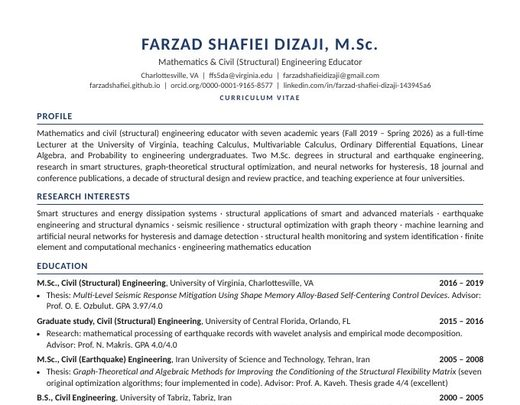
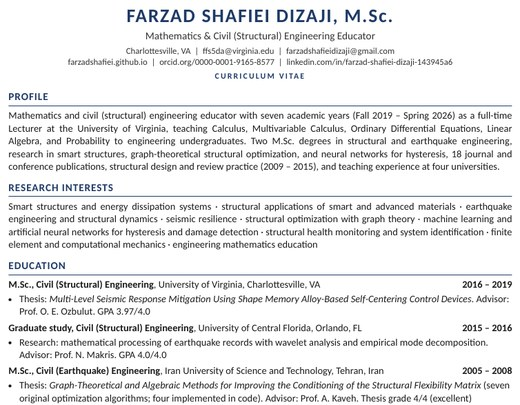
Search-committee summary, News, structured data; CV wording 2009-2015
Claude-Session: https://claude.ai/code/session_01NaBsxn5xyFHacptoK8tfvk

diff --git a/index.html b/index.html
@@ -11,6 +11,79 @@ if(location.hostname==='farzadshafiei.github.io'){
   gtag('config','G-VP09FY47HP');
 }
 </script>
+<script type="application/ld+json">
+{
+ "@context": "https://schema.org",
+ "@type": "Person",
+ "name": "Farzad Shafiei Dizaji",
+ "alternateName": [
+  "Farzad S. Dizaji",
+  "Farzad Shafiei"
+ ],
+ "url": "https://farzadshafiei.github.io/",
+ "image": "https://farzadshafiei.github.io/media/share.jpg",
+ "email": "mailto:farzadshafieidizaji@gmail.com",
+ "jobTitle": "Mathematics and Civil (Structural) Engineering Educator",
+ "description": "Former Lecturer in the Applied Mathematics Center at the University of Virginia (Fall 2019 – Spring 2026), teaching calculus, differential equations, linear algebra and probability to engineering students; research in smart structures, structural optimization and neural networks.",
+ "address": {
+  "@type": "PostalAddress",
+  "addressLocality": "Charlottesville",
+  "addressRegion": "VA",
+  "addressCountry": "US"
+ },
+ "alumniOf": [
+  {
+   "@type": "CollegeOrUniversity",
+   "name": "University of Virginia"
+  },
+  {
+   "@type": "CollegeOrUniversity",
+   "name": "Iran University of Science and Technology"
+  },
+  {
+   "@type": "CollegeOrUniversity",
+   "name": "University of Tabriz"
+  }
+ ],
+ "hasCredential": [
+  {
+   "@type": "EducationalOccupationalCredential",
+   "credentialCategory": "degree",
+   "name": "M.Sc., Civil (Structural) Engineering, University of Virginia"
+  },
+  {
+   "@type": "EducationalOccupationalCredential",
+   "credentialCategory": "degree",
+   "name": "M.Sc., Civil (Earthquake) Engineering, Iran University of Science and Technology"
+  }
+ ],
+ "knowsAbout": [
+  "Calculus",
+  "Ordinary differential equations",
+  "Linear algebra",
+  "Probability",
+  "Engineering mathematics education",
+  "Mastery grading",
+  "Inquiry-based learning",
+  "Structural engineering",
+  "Earthquake engineering",
+  "Shape memory alloys",
+  "Structural optimization",
+  "Neural networks"
+ ],
+ "identifier": {
+  "@type": "PropertyValue",
+  "propertyID": "ORCID",
+  "value": "0000-0001-9165-8577"
+ },
+ "sameAs": [
+  "https://orcid.org/0000-0001-9165-8577",
+  "https://scholar.google.com/citations?user=aKvi7Q0AAAAJ",
+  "https://www.linkedin.com/in/farzad-shafiei-dizaji-143945a6/",
+  "https://www.researchgate.net/profile/Farzad-Shafiei-Dizaji"
+ ]
+}
+</script>
 <link rel="canonical" href="https://farzadshafiei.github.io/">
 <meta property="og:type" content="website">
 <meta property="og:title" content="Farzad Shafiei Dizaji · Mathematics and Civil (Structural) Engineering Educator">
@@ -396,6 +469,23 @@ details.lab-wrap[open] .lw-close{display:inline}
   .methods{grid-template-columns:repeat(2,minmax(0,1fr))}
 }
 @media (min-width:1400px){h1{font-size:clamp(4.8rem,5.2vw,6rem)}}
+
+/* committees box + news */
+.glance{display:grid;grid-template-columns:repeat(2,minmax(0,1fr));gap:.8rem}
+@media (max-width:760px){.glance{grid-template-columns:minmax(0,1fr)}}
+.gl{background:var(--surface);border:1px solid var(--rule);border-left:3px solid var(--accent);border-radius:8px;padding:.85rem 1rem}
+.gl:nth-child(2){border-left-color:var(--mark)}
+.gl p{margin:0;font-size:.95rem;line-height:1.5}
+.gl .gl-k{font:600 .72rem var(--mono);letter-spacing:.08em;text-transform:uppercase;color:var(--muted);margin-bottom:.3rem}
+.gl-docs{display:flex;flex-wrap:wrap;gap:.5rem;margin:.9rem 0 0}
+.gl-docs a{display:inline-flex;align-items:center;gap:.4rem;padding:.38rem .75rem;border:1px solid var(--accent);border-radius:5px;color:var(--accent);text-decoration:none;font:600 .84rem var(--sans)}
+.gl-docs a:hover{background:var(--accent-soft)}
+.gl-docs svg{width:15px;height:15px}
+.news{list-style:none;margin:0;padding:0}
+.news li{display:grid;grid-template-columns:6.5rem minmax(0,1fr);gap:1rem;padding:.55rem 0;border-bottom:1px solid var(--rule)}
+.news li:last-child{border-bottom:0}
+.news time{font:600 .8rem var(--mono);letter-spacing:.04em;color:var(--mark);padding-top:.15rem}
+@media (max-width:560px){.news li{grid-template-columns:minmax(0,1fr);gap:.1rem}}
 /* ===== Light reading theme (default). Dark islands: intro, interactive labs, math-in-motion player. ===== */
 :root{--on-accent:#04121c;--accent-hover:#9bd1f0}
 html:not([data-theme="dark"]) .sheet{--bg:#faf8f4;--surface:#ffffff;--ink:#14213d;--muted:#566175;--rule:#dfd9ce;--accent:#1f5f99;--accent-soft:#e4edf7;--mark:#c2570c;--on-accent:#ffffff;--accent-hover:#174a78;--cta:#e57200;--cta-ink:#14213d;color-scheme:light;color:var(--ink)}
@@ -472,6 +562,25 @@ html:not([data-theme="dark"]) .sheet .wordlit.on .w{animation-name:wglowL}
 <div class="tiles" role="navigation" aria-label="Explore"><a class="tile" href="#about"><img src="media/tiles/about.jpg" alt="" width="400" height="400" loading="lazy"><span class="tl">About</span><span class="ts">About me</span></a><a class="tile" href="#philosophy"><img src="media/tiles/philosophy.jpg" alt="" width="400" height="400" loading="lazy"><span class="tl">Philosophy</span><span class="ts">How I teach</span></a><a class="tile" href="#teaching"><img src="media/tiles/teaching.jpg" alt="" width="400" height="400" loading="lazy"><span class="tl">Teaching</span><span class="ts">Courses taught</span></a><a class="tile" href="#students"><img src="media/tiles/students.jpg" alt="" width="400" height="400" loading="lazy"><span class="tl">Students</span><span class="ts">In their words</span></a><a class="tile" href="#research"><img src="media/tiles/research.jpg" alt="" width="400" height="400" loading="lazy"><span class="tl">Research</span><span class="ts">Dampers, graphs</span></a><a class="tile" href="#publications"><img src="media/tiles/publications.jpg" alt="" width="400" height="400" loading="lazy"><span class="tl">Publications</span><span class="ts">Papers</span></a><a class="tile" href="#contact"><img src="media/tiles/contact.jpg" alt="" width="400" height="400" loading="lazy"><span class="tl">Contact</span><span class="ts">Get in touch</span></a></div>
 
 
+
+<section id="glance" aria-labelledby="glance-h"><h2 id="glance-h">For search committees</h2><div class="body">
+  <div class="glance">
+    <div class="gl"><p class="gl-k">Ready to teach · Mathematics</p><p>Calculus I–III, Differential Equations, Linear Algebra, Probability &amp; Statistics, Engineering Mathematics, PDE, Numerical Methods, precalculus and STEM-skills courses</p></div>
+    <div class="gl"><p class="gl-k">Ready to teach · Civil engineering</p><p>Statics, Mechanics of Materials, Structural Analysis, Steel and Reinforced Concrete Design, Structural Dynamics; electives in earthquake engineering, FEM and smart structures</p></div>
+    <div class="gl"><p class="gl-k">Experience</p><p>Seven academic years as a full-time Lecturer at UVA (Fall 2019 – Spring 2026), 1,100+ engineering students; structural engineering practice 2009 – 2015; 18 publications</p></div>
+    <div class="gl"><p class="gl-k">Degrees &amp; availability</p><p>M.Sc. Structural Engineering (UVA), M.Sc. Earthquake Engineering (IUST). Available for positions starting Spring 2027.</p></div>
+  </div>
+  <p class="gl-docs"><a href="cv/Farzad_Shafiei_Dizaji_CV.pdf" target="_blank" rel="noopener"><svg viewBox="0 0 24 24" aria-hidden="true"><path fill="none" stroke="currentColor" stroke-width="2" stroke-linejoin="round" d="M6 2h9l5 5v15H6zM14 2v6h6"/></svg>CV</a><a href="cv/Teaching_Statement_Farzad_Shafiei_Dizaji.pdf" target="_blank" rel="noopener"><svg viewBox="0 0 24 24" aria-hidden="true"><path fill="none" stroke="currentColor" stroke-width="2" stroke-linejoin="round" d="M6 2h9l5 5v15H6zM14 2v6h6"/></svg>Teaching statement</a><a href="cv/Research_Statement_Farzad_Shafiei_Dizaji.pdf" target="_blank" rel="noopener"><svg viewBox="0 0 24 24" aria-hidden="true"><path fill="none" stroke="currentColor" stroke-width="2" stroke-linejoin="round" d="M6 2h9l5 5v15H6zM14 2v6h6"/></svg>Research statement</a><a href="cv/Diversity_Statement_Farzad_Shafiei_Dizaji.pdf" target="_blank" rel="noopener"><svg viewBox="0 0 24 24" aria-hidden="true"><path fill="none" stroke="currentColor" stroke-width="2" stroke-linejoin="round" d="M6 2h9l5 5v15H6zM14 2v6h6"/></svg>Diversity statement</a><a href="#documents">All résumés</a><a href="#contact">Contact</a></p>
+</div></section>
+
+<section id="news" aria-labelledby="news-h"><h2 id="news-h">News</h2><div class="body">
+  <ul class="news">
+    <li><time datetime="2026-10">Oct 2026</time><span>Applying for lecturer and assistant professor positions in mathematics and civil engineering, starting Spring or Fall 2027.</span></li>
+    <li><time datetime="2026-10">Oct 2026</time><span>New on this site: a teaching statement, a teaching introduction video and interactive versions of my research models.</span></li>
+    <li><time datetime="2026-05">May 2026</time><span>Completed seven academic years as a Lecturer in UVA's Applied Mathematics Center (Fall 2019 – Spring 2026).</span></li>
+    <li><time datetime="2024-06">Jun 2024</time><span>Co-authored ASEE paper <em>Exploring the Impact of Mastery Grading on Student Performance</em>.</span></li>
+  </ul>
+</div></section>
 
 <section id="about"><h2>About</h2><div class="body">
   <p>I trained as a structural engineer and became a mathematics instructor. I hold M.Sc. degrees in Civil (Structural) Engineering from the University of Virginia and in Civil (Earthquake) Engineering from Iran University of Science and Technology. Both theses lean on applied mathematics: one on seismic control devices, the other on graph-theoretical optimization of structural matrices.</p>
